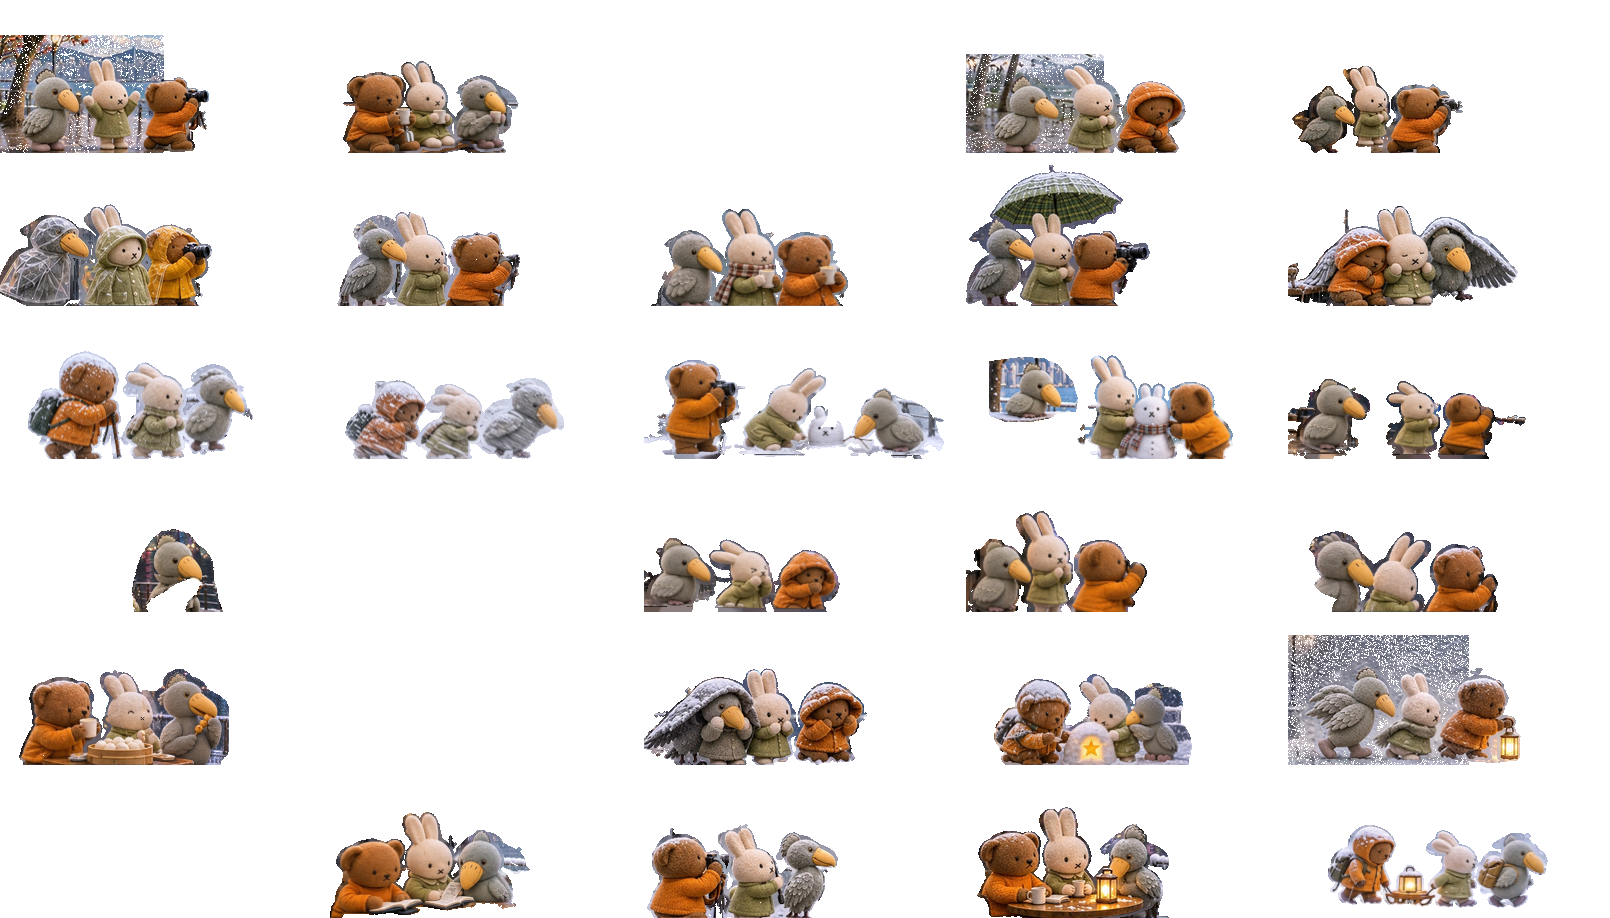
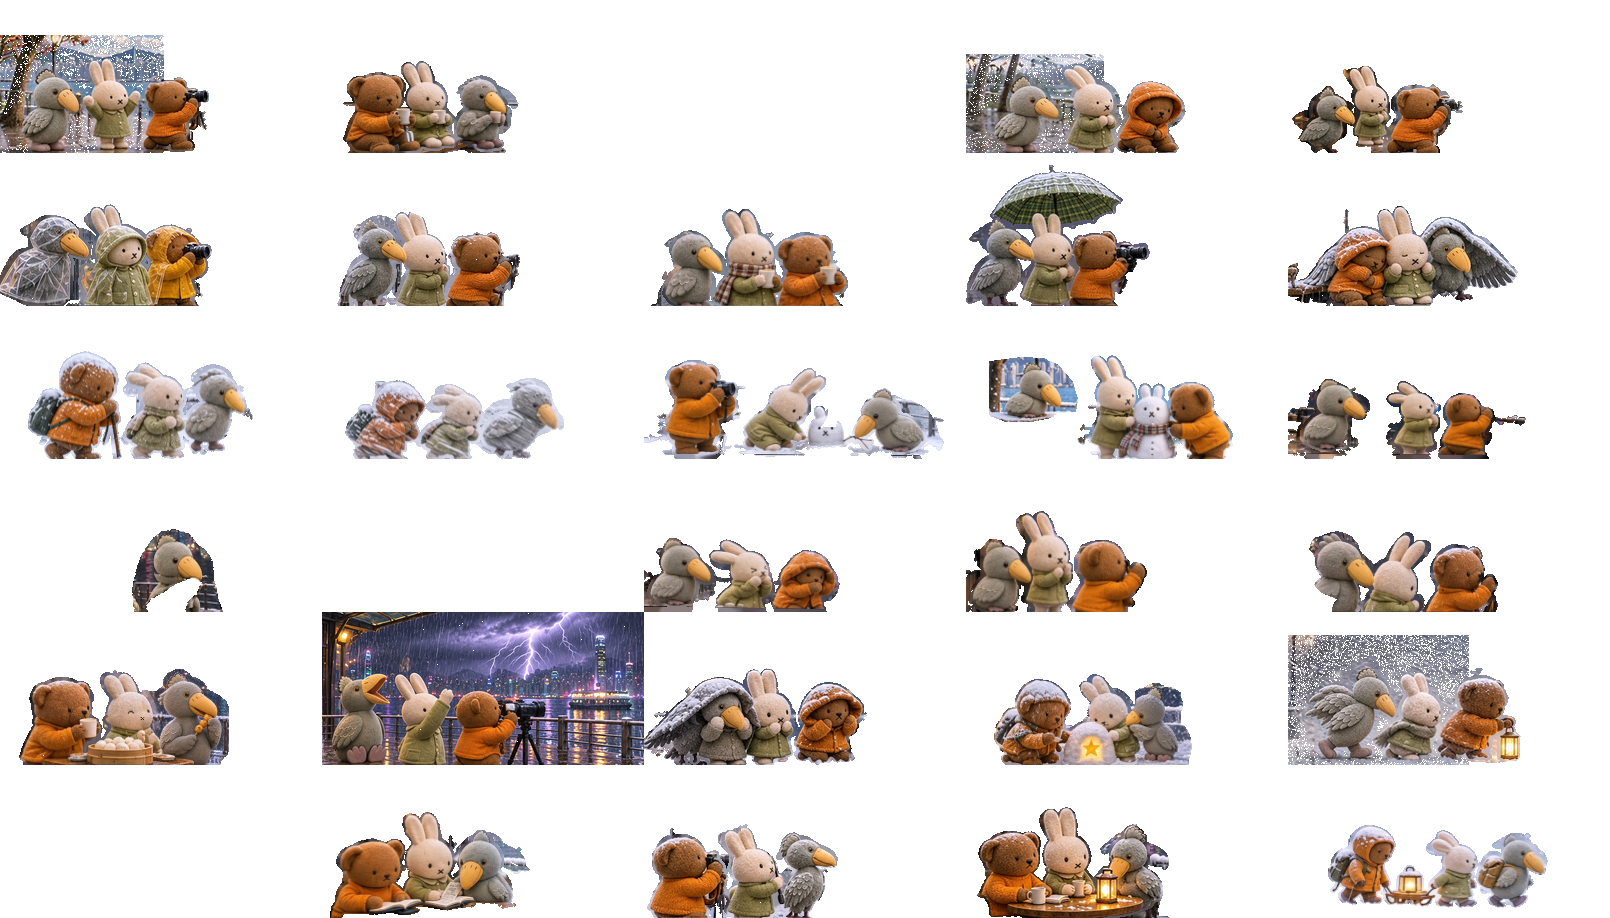
Publish verified plush travel weather illustrations

Changed region(s): [[0.1863, 0.6405, 0.4037, 0.854]]

diff --git a/trip-scenery.js b/trip-scenery.js
@@ -128,29 +128,29 @@ const TripScenery = (() => {
     "haneda":{"rev":"627adc008342","tiles":[4,10,12]},
     "haneda-b":{"rev":"392452ba3ef2","tiles":[0,1,2,3,4,5,6,7,8,9,10,11,12,13,14,15,16,17,18,19,20,21,22,23,24,25,26,27,28,29]},
     "hkairport":{"rev":"811bca323825","tiles":[1]},
-    "hkairport-b":{"rev":"40f4251a35a7","tiles":[0,1,2,3,4,5,6,7,9,10,11,12,13,14,15,16,17,18,19,20,21,22,23,24,25,26,27,28,29]},
+    "hkairport-b":{"rev":"cfae7de5a28a","tiles":[0,1,2,3,4,5,6,7,8,9,10,11,12,13,14,15,16,17,18,19,20,21,22,23,24,25,26,27,28,29]},
     "hongkong":{"rev":"1c5206374d36","tiles":[1,3,13]},
-    "hongkong-b":{"rev":"14b5688a6e94","tiles":[0,1,3,4,5,6,7,8,9,10,11,12,13,14,15,17,18,19,20,22,23,24,26,27,28,29]},
+    "hongkong-b":{"rev":"b2ba49573041","tiles":[0,1,3,4,5,6,7,8,9,10,11,12,13,14,15,17,18,19,20,21,22,23,24,26,27,28,29]},
     "ikebukuro":{"rev":"3eac653f613a","tiles":[6,7,12,17,18]},
-    "ikebukuro-b":{"rev":"4e019e8951eb","tiles":[0,1,2,3,4,5,6,7,8,9,10,12,13,14,15,16,17,18,19,20,21,23,24,25,26,27,28,29]},
+    "ikebukuro-b":{"rev":"1637532a841f","tiles":[0,1,2,3,4,5,6,7,8,9,10,11,12,13,14,15,16,17,18,19,20,21,23,24,25,26,27,28,29]},
     "kushiro":{"rev":"ba38cfd09b0c","tiles":[0,3,7,16,18,19]},
     "kushiro-b":{"rev":"ebb67b2e06f4","tiles":[0,1,2,3,4,5,6,7,8,9,10,11,12,13,14,15,16,17,18,19,20,21,22,23,24,25,26,27,28,29]},
     "kussharo":{"rev":"93c2e99f0902","tiles":[4,7]},
     "kussharo-b":{"rev":"9944c161d983","tiles":[0,1,2,3,4,5,6,7,8,9,10,11,12,13,14,15,16,17,18,19,20,21,22,23,24,25,26,27,28,29]},
     "marsh":{"rev":"06ee2357488e","tiles":[4,10]},
-    "marsh-b":{"rev":"a6d300014427","tiles":[0,1,2,3,4,5,6,7,8,9,10,12,13,14,15,16,17,18,19,20,21,22,23,24,25,26,27,28,29]},
+    "marsh-b":{"rev":"b1baee9d0b78","tiles":[0,1,2,3,4,5,6,7,8,9,10,11,12,13,14,15,16,17,18,19,20,21,22,23,24,25,26,27,28,29]},
     "moere":{"rev":"a93c0904ed41","tiles":[1,4,7,14,17]},
     "moere-b":{"rev":"c14e2ff00b18","tiles":[0,1,2,3,4,5,6,7,8,9,10,11,12,13,14,15,16,17,18,19,20,21,22,23,24,25,26,27,28,29]},
     "narita":{"rev":"8975a1809016","tiles":[11,12,15]},
     "narita-b":{"rev":"cd88771d16f5","tiles":[0,2,3,4,5,6,7,8,9,10,11,12,13,14,15,16,17,18,19,20,21,22,23,24,25,26,27,28,29]},
     "obihiro":{"rev":"1c28bd332a3d","tiles":[7,13,18]},
-    "obihiro-b":{"rev":"d85d5f1aa9ca","tiles":[0,1,4,7,9,10,11,12,13,14,15,17,18,19,20,21,22,23,24,25,26,27,28]},
+    "obihiro-b":{"rev":"96d181f0ed03","tiles":[0,1,2,4,6,7,8,9,10,11,12,13,14,15,17,18,19,20,21,22,23,24,25,26,27,28]},
     "otaru":{"rev":"3791dd540955","tiles":[9]},
-    "otaru-b":{"rev":"570f2cea31a1","tiles":[0,2,4,6,8,9,10,12,13,14,15,17,18,19,20,21,22,28]},
+    "otaru-b":{"rev":"11a76998120a","tiles":[0,2,4,5,6,7,8,9,10,11,12,13,14,15,17,18,19,20,21,22,28]},
     "roppongi":{"rev":"ee08e606e29f","tiles":[12]},
     "roppongi-b":{"rev":"b764aec7a39f","tiles":[1,2,3,4,5,6,7,8,9,10,11,12,13,14,15,16,17,18,19,20,21,22,23,24,25,26,27,28,29]},
     "rusutsu":{"rev":"15835914c6d3","tiles":[7,11,13,16,18]},
-    "rusutsu-b":{"rev":"3d96773ed480","tiles":[0,1,2,3,4,5,6,8,9,10,11,12,13,14,15,16,17,18,19,20,22,25,26,27,28,29]},
+    "rusutsu-b":{"rev":"f68bd4b1a2fd","tiles":[0,1,2,3,4,5,6,8,9,10,11,12,13,14,15,16,17,18,19,20,22,24,25,26,27,28,29]},
     "sapporo":{"rev":"e925743f436f","tiles":[9]},
     "sapporo-b":{"rev":"9426373f3218","tiles":[0,1,4,5,6,7,8,9,10,11,12,13,14,15,17,18,19,20,21,22,23,24,25,26,27,28,29]},
     "spot-027c9d1e1":{"rev":"ffc74a33bb42","tiles":[0,9,16]},
@@ -167,7 +167,7 @@ const TripScenery = (() => {
     "spot-1501f4191-b":{"rev":"97bed0a75cef","tiles":[22]},
     "spot-1a6f6070c-b":{"rev":"b61466bcc124","tiles":[0,1,2,3,4,5,6,7,8,9,10,11,12,13,14,15,16,17,18,19,20,21,22,23,24,25,26,27,28,29]},
     "spot-1d625ae4f":{"rev":"d953b4ddb572","tiles":[13]},
-    "spot-1d625ae4f-b":{"rev":"da5114a4ac61","tiles":[0,1,2,3,4,5,6,7,8,9,10,11,12,13,15,17,18,19,21,22,23,24,25,26,27,28,29]},
+    "spot-1d625ae4f-b":{"rev":"28daf288f5d2","tiles":[0,1,2,3,4,5,6,7,8,9,10,11,12,13,14,15,17,18,19,20,21,22,23,24,25,26,27,28,29]},
     "spot-1f13a90b8":{"rev":"7c6cfdd1cf96","tiles":[0,3,5,7,9,10,13,14,15,16,18,19]},
     "spot-1f13a90b8-b":{"rev":"b4c99f139f7d","tiles":[0,1,2,3,4,5,6,7,8,9,10,11,12,13,14,15,16,17,18,19,20,21,22,23,24,25,26,27,28,29]},
     "spot-266ac0336":{"rev":"016e874e488a","tiles":[0,3,4,5,6,7,8,9,10,11,12,13,14,15,16,18,19]},
@@ -182,7 +182,7 @@ const TripScenery = (() => {
     "spot-31c4556cc-b":{"rev":"97cc430c4588","tiles":[0,1,2,3,4,5,6,7,8,9,10,11,12,13,14,15,16,17,18,19,20,21,22,23,24,25,26,27,28,29]},
     "spot-330159020-b":{"rev":"27f5305b8a80","tiles":[0,7,8,10,17,22,25,29]},
     "spot-33cad23f7":{"rev":"7e078e457fee","tiles":[7]},
-    "spot-33cad23f7-b":{"rev":"681d71581abb","tiles":[0,1,2,3,4,5,6,8,9,11,12,13,14,15,17,18,20,21,23,24,25,26,27,28,29]},
+    "spot-33cad23f7-b":{"rev":"7ca34327597a","tiles":[0,1,2,3,4,5,6,8,9,11,12,13,14,15,17,18,20,21,22,23,24,25,26,27,28,29]},
     "spot-3c6782d38":{"rev":"95e40e1907f0","tiles":[13,14]},
     "spot-3c6782d38-b":{"rev":"367bb9a03438","tiles":[0,1,2,3,4,5,6,7,8,9,10,11,12,13,14,15,16,17,18,19,20,21,22,23,24,25,26,27,28,29]},
     "spot-3f5a2f8fc":{"rev":"f086f04ef697","tiles":[0,1,2,3,7,13,16,17,18,19]},
@@ -214,9 +214,9 @@ const TripScenery = (() => {
     "spot-5724c004b":{"rev":"4fd670cd81f4","tiles":[0,3,4,6,7,8,9,10,11,12,13,14,15,16,17,19]},
     "spot-5724c004b-b":{"rev":"a2d0ec36a719","tiles":[0,1,2,3,4,5,6,7,8,9,10,11,12,13,14,15,16,17,18,19,20,21,22,23,24,25,26,27,28,29]},
     "spot-59c3d0ebd":{"rev":"7378981aaaaa","tiles":[2,9,11,13,15,17]},
-    "spot-59c3d0ebd-b":{"rev":"6b0a3c6660b7","tiles":[0,1,2,3,4,7,9,10,11,12,13,15,16,18,19,20,22,24,26,28]},
+    "spot-59c3d0ebd-b":{"rev":"84da97f9680c","tiles":[0,1,2,3,4,7,9,10,11,12,13,14,15,16,17,18,19,20,22,24,26,28]},
     "spot-5df3b4a31":{"rev":"99a3dba5bf36","tiles":[4]},
-    "spot-5df3b4a31-b":{"rev":"05636ba649fb","tiles":[0,2,4,6,7,8,9,10,11,12]},
+    "spot-5df3b4a31-b":{"rev":"9a2cf4fd7d46","tiles":[0,2,4,6,7,8,9,10,11,12,13]},
     "spot-627afeabe":{"rev":"852212a79865","tiles":[0,3,4,6,7,8,10,11,12,13,14,16,19]},
     "spot-627afeabe-b":{"rev":"83191e3b0fba","tiles":[0,2,3,4,5,6,7,9,10,11,13,14,15,16,17,19,20,21,22,23,24,25,26,27,28,29]},
     "spot-628c4952e":{"rev":"b41c8cc7518c","tiles":[4,6,7,8,9,10,11,12,13,15]},
@@ -249,8 +249,8 @@ const TripScenery = (() => {
     "spot-89ba4f10d-b":{"rev":"e04917d197f4","tiles":[0,1,2,3,4,5,6,7,8,9,10,11,12,13,14,15,16,17,18,19,20,21,22,23,24,25,26,27,28,29]},
     "spot-8f335641b":{"rev":"922d7a63f424","tiles":[7,10,13]},
     "spot-8f335641b-b":{"rev":"375477dd3f94","tiles":[0,1,2,3,4,5,6,7,8,9,10,11,12,13,14,15,16,18,19,21,22,23,24,25,26,27,28,29]},
-    "spot-90e680279":{"rev":"89c19726ad4c","tiles":[4,6,9,10,11,14,19]},
-    "spot-90e680279-b":{"rev":"55e58819bfdd","tiles":[0,1,2,4,6,7,8,9,10,12,13,14,15,16,17,18,19,20,21,22,23,24,25,26,27,28,29]},
+    "spot-90e680279":{"rev":"12f0a268008e","tiles":[0,1,2,3,4,5,6,7,8,9,10,11,12,13,14,15,16,17,18,19]},
+    "spot-90e680279-b":{"rev":"663063803a20","tiles":[0,1,2,3,4,5,6,7,8,9,10,11,12,13,14,15,16,17,18,19,20,21,22,23,24,25,26,27,28,29]},
     "spot-986c13ff5":{"rev":"ce3ac4cbcc9f","tiles":[0,3,7,9,13,16]},
     "spot-986c13ff5-b":{"rev":"0817c94bd73c","tiles":[0,1,3,4,5,6,7,9,10,11,12,13,14,15,16,17,18,19,22,25,27,29]},
     "spot-9f53c40a2-b":{"rev":"312c910c1c0c","tiles":[0,1,2,3,4,5,6,7,8,9,10,11,12,13,14,15,16,17,18,19,20,21,22,23,24,25,26,27,28,29]},
@@ -262,17 +262,17 @@ const TripScenery = (() => {
     "spot-ac4485fba-b":{"rev":"edc281c8e2c4","tiles":[0,1,2,3,4,5,6,7,8,9,10,11,12,13,14,15,16,17,18,19,20,21,22,23,24,25,26,27,28,29]},
     "spot-acfec276c-b":{"rev":"fcd0266ef445","tiles":[0,1,2,3,4,5,6,7,8,9,10,11,12,13,14,15,16,17,18,19,20,21,22,23,24,25,26,27,28,29]},
     "spot-b238fe7ba":{"rev":"34e2069181cf","tiles":[5]},
-    "spot-b238fe7ba-b":{"rev":"f3f6257afdfd","tiles":[0,1,2,3,4,5,6,7,8,9,10,11,12,13,14,15,16,17,18,19,20,23,26,27,28,29]},
+    "spot-b238fe7ba-b":{"rev":"aca8198db2dd","tiles":[0,1,2,3,4,5,6,7,8,9,10,11,12,13,14,15,16,17,18,19,20,23,24,26,27,28,29]},
     "spot-b531cf1e9":{"rev":"89fd0a7e4191","tiles":[4,7,9,11,14]},
-    "spot-b531cf1e9-b":{"rev":"b5178c92b56c","tiles":[0,1,2,4,7,8,9,10,12,14,15,16,18,20,22,23,24,25,26,27,28,29]},
+    "spot-b531cf1e9-b":{"rev":"beaeea66d4e2","tiles":[0,1,2,4,7,8,9,10,11,12,13,14,15,16,18,20,22,23,24,25,26,27,28,29]},
     "spot-bbf221799":{"rev":"d18150d38f81","tiles":[13]},
     "spot-bbf221799-b":{"rev":"0938c9dc52f6","tiles":[0,1,2,3,4,5,6,7,8,9,10,11,12,13,14,15,16,17,18,19,20,21,22,23,24,25,26,27,28,29]},
     "spot-c01dc34a3":{"rev":"07081ae18302","tiles":[7]},
-    "spot-c01dc34a3-b":{"rev":"55aaa922206b","tiles":[0,1,2,3,4,5,6,7,9,10,13,14,15,16,17,18,19,21,22,23,24,25,26,27,28,29]},
+    "spot-c01dc34a3-b":{"rev":"774560fad46a","tiles":[0,1,2,3,4,5,6,7,9,10,11,12,13,14,15,16,17,18,19,20,21,22,23,24,25,26,27,28,29]},
     "spot-c1f3498b7":{"rev":"29ede418659d","tiles":[7,13]},
     "spot-c1f3498b7-b":{"rev":"68f0bd124929","tiles":[3,8,9,17,22,29]},
     "spot-c6a0e8931":{"rev":"0d3ecc38a268","tiles":[1,4,8,11,12,17,18]},
-    "spot-c6a0e8931-b":{"rev":"3d5b0c39853f","tiles":[0,1,2,3,4,5,6,7,8,9,10,11,12,13,14,15,16,17,18,19,21,22,24,25,26,27,28,29]},
+    "spot-c6a0e8931-b":{"rev":"df7f14e59152","tiles":[0,1,2,3,4,5,6,7,8,9,10,11,12,13,14,15,16,17,18,19,21,22,23,24,25,26,27,28,29]},
     "spot-c8601530f":{"rev":"7312cb0824e0","tiles":[5]},
     "spot-c8601530f-b":{"rev":"b697f0ea1c5f","tiles":[0,1,3,4,5,6,7,8,9,10,11,12,13,14,15,17,18,19,20,21,22,23,24,25,26,27,28,29]},
     "spot-cb578c594":{"rev":"41d7fa1190c7","tiles":[7,8,13]},

diff --git a/index.html b/index.html
@@ -1,5 +1,5 @@
 <!doctype html>
-<html lang="zh-HK" data-build="20261125-v91">
+<html lang="zh-HK" data-build="20261125-v92">
 <head>
 <meta charset="utf-8">
 <meta name="viewport" content="width=device-width, initial-scale=1, viewport-fit=cover">
@@ -1168,7 +1168,7 @@
       <button data-act="trips">切換旅程</button>
       <button data-act="settings">設定</button>
       <div class="verrow">
-        <div id="ver" data-build="20261125-v91" style="padding-top:0">v91</div>
+        <div id="ver" data-build="20261125-v92" style="padding-top:0">v92</div>
         <button class="forceup" data-act="forceup" type="button">強制更新</button>
       </div>
     </div>
@@ -1236,7 +1236,7 @@
   var SBK = 'sb_publishable_YROUDaSxinrbHH4g7q8gmQ_4za7Ohfj';
   var TABLE='trip_log', AI_URL=SB+'/functions/v1/trip-ai';
   var APP='trip', SESS_KEY='appSession.trip', AUTH=SB+'/functions/v1/app-auth';
-  var APP_VER='20261125-v91';
+  var APP_VER='20261125-v92';
 
   // kind：類型定義（icon、名、有冇座標、預設時間 label）
   var KINDS={
